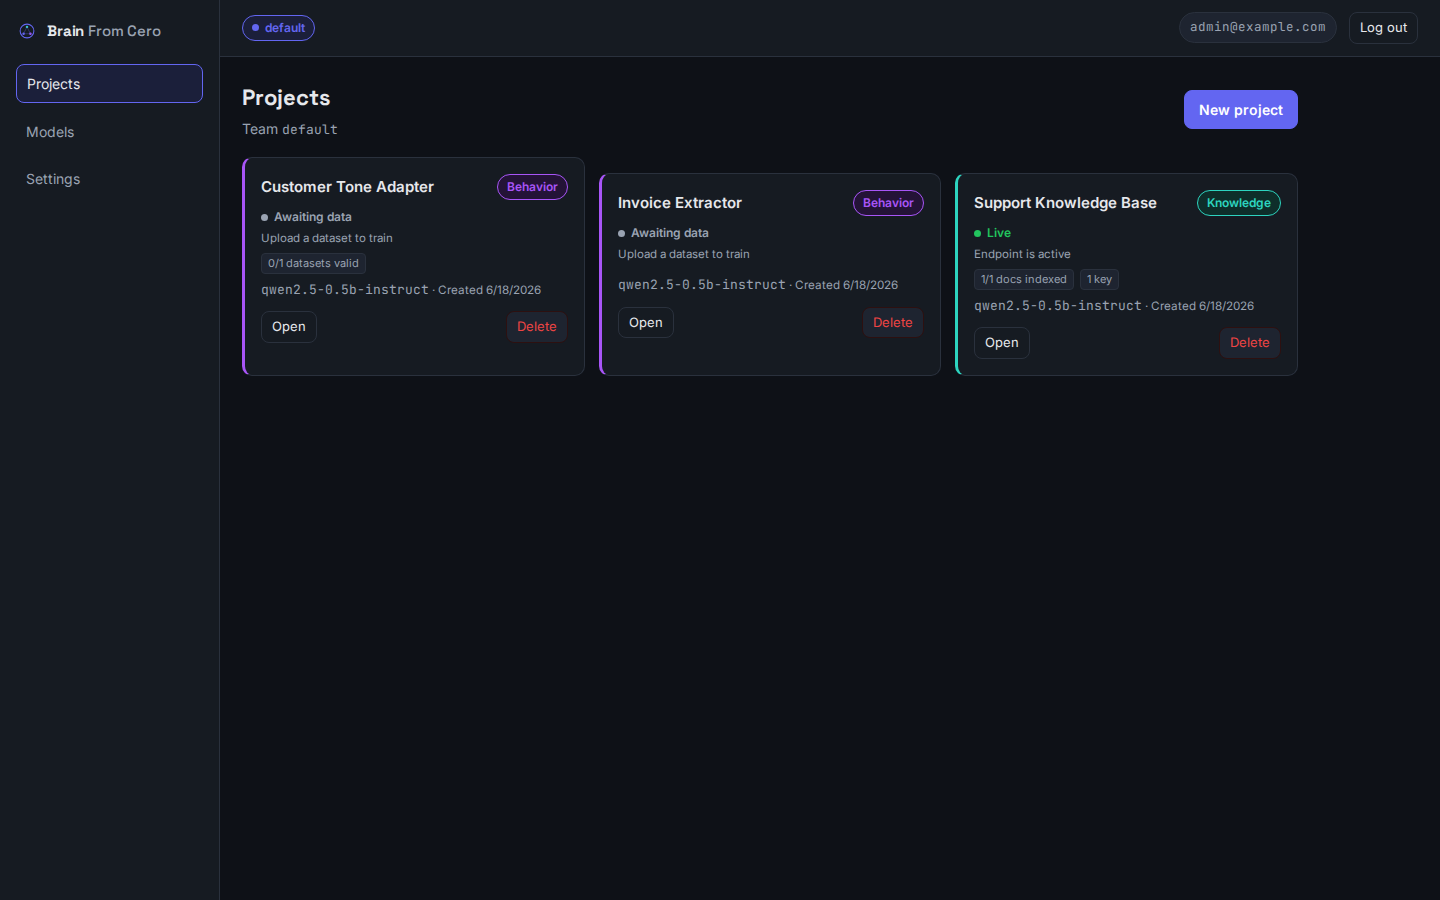
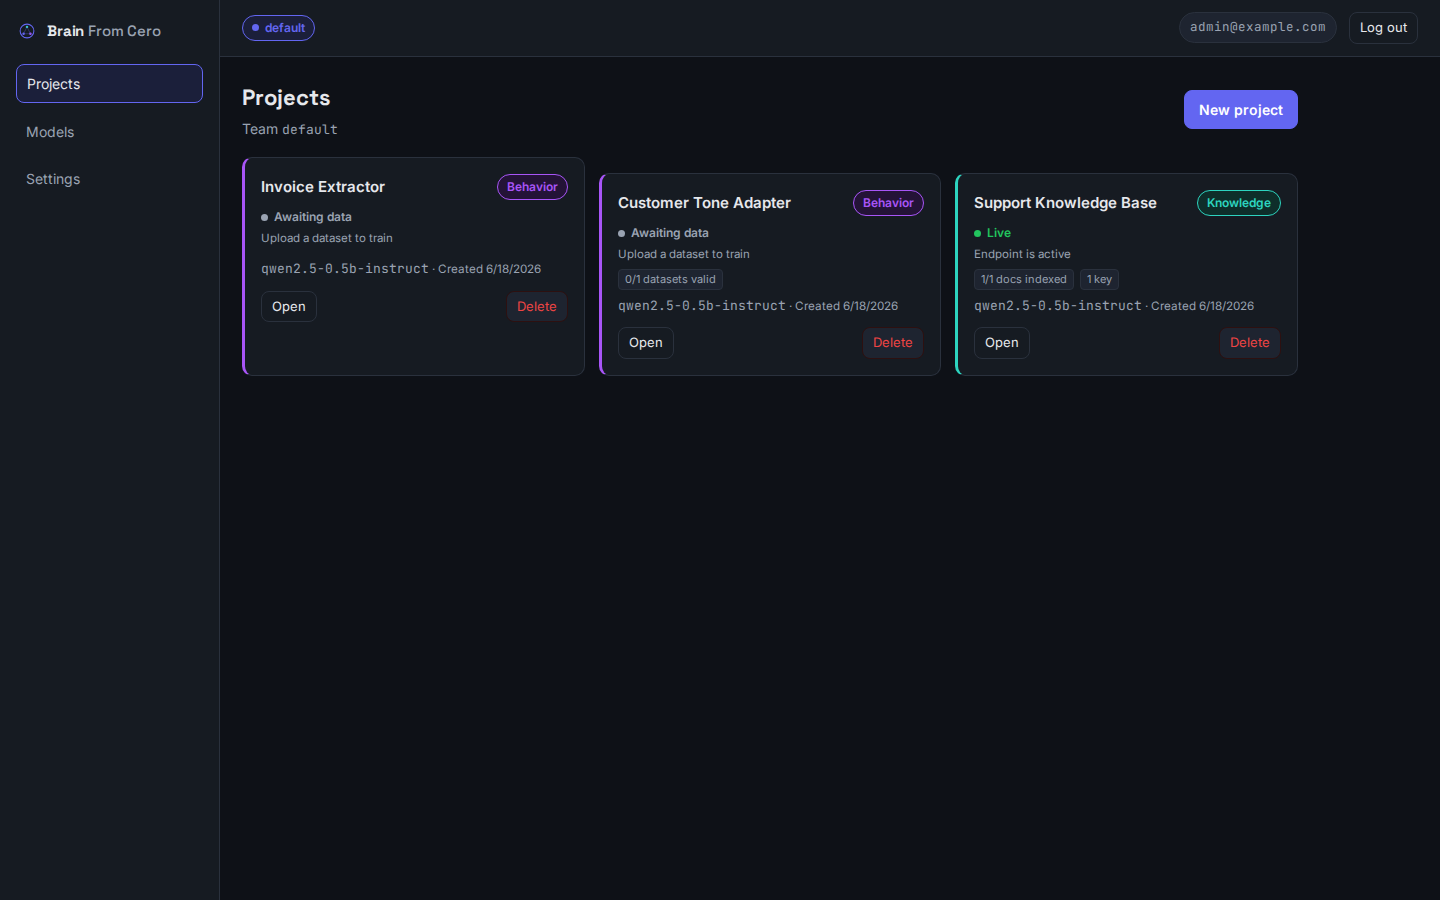
Docs: regenerate console screenshots + expand visual-docs tooling guide
- Re-ran make screenshots and make gif; 5 images updated (projects list,
  rag-endpoint, rag-playground, project-overview, hero.gif)
- README: replace one-liner setup note with a proper prerequisites + usage
  block; clarify that both targets wipe and re-seed demo data
- docs/developer-guide/workflow.md: add "Console visual documentation" section
  (prerequisites, make targets, when to re-run); fix stale adapta/ path
  references → brain/; fix stale CONTRIBUTING.md URL

diff --git a/docs/developer-guide/workflow.md b/docs/developer-guide/workflow.md
@@ -41,16 +41,16 @@ what the eval gate measures.
 ### Adding or changing an API endpoint
 
 1. Edit `specs/openapi.yaml` **first** (the SSOT).
-2. `make generate` — regenerate `adapta/models/generated/models.py`. **Never
+2. `make generate` — regenerate `brain/models/generated/models.py`. **Never
    hand-edit generated files.**
-3. Implement the handler in `adapta/api/v1/*` and the logic in
-   `adapta/services/*`.
+3. Implement the handler in `brain/api/v1/*` and the logic in
+   `brain/services/*`.
 4. `make check-models` (drift gate) and `make test-contracts` (schemathesis
    against a live server) must pass.
 
 ### Changing the database schema
 
-1. Change the ORM in `adapta/db/models.py`.
+1. Change the ORM in `brain/db/models.py`.
 2. Autogenerate a migration, then **review it** (autogenerated ≠ correct).
 3. `make migrate-test` — the up→down→up round-trip must pass on seeded data.
 
@@ -84,5 +84,29 @@ API/schema/model; (2) the relevant gate is **green in CI**, not just locally;
 artifacts were regenerated, not hand-edited; (5) docs were updated in the same
 change.
 
+## Console visual documentation
+
+`make screenshots` and `make gif` regenerate the screenshots and hero GIF committed to
+`docs/screenshots/`. Re-run them whenever you change the console UI — they are the
+visual changelog for reviewers and users.
+
+**Prerequisites (once, on the host):**
+
+```bash
+cd e2e && npm install && npx playwright install chromium
+# ffmpeg must be on PATH
+```
+
+**Usage (stack must be up):**
+
+```bash
+make screenshots   # 9 PNGs at 1440×900, dark theme → docs/screenshots/
+make gif           # guided walkthrough → docs/screenshots/hero.gif (~1–2 MB)
+```
+
+Both seed demo data fresh on each run (wipes existing projects → creates 3). Commit the
+updated `docs/screenshots/` files alongside the console change. These targets are
+**host-only and never run in CI**.
+
 For coding style, branch/commit conventions, and the contributor checklist, see
-[CONTRIBUTING.md](https://github.com/santiagoyie/adapta/blob/main/CONTRIBUTING.md).
+[CONTRIBUTING.md](https://github.com/santiagoyie/brainFromCero/blob/main/CONTRIBUTING.md).

diff --git a/README.md b/README.md
@@ -457,14 +457,26 @@ make migrate-test    # up → down → up round-trip (Pillar 2 gate)
 make test-contracts  # schemathesis vs a live server (set ADAPTA_BEARER_TOKEN first)
 ```
 
-Two additional targets run **on the host** (not in the container) and require the stack to be up:
+### Visual documentation (LOCAL ONLY — not part of CI)
+
+`make screenshots` and `make gif` run Playwright against the live stack to regenerate the console screenshots and hero GIF committed under `docs/screenshots/`. Re-run them whenever you change the console UI.
+
+**Prerequisites (one-time, on the host):**
 
 ```bash
-make screenshots     # capture console views as PNGs → docs/screenshots/  (needs Playwright + ffmpeg)
-make gif             # record hero walkthrough → docs/screenshots/hero.gif  (needs Playwright + ffmpeg)
+# Node.js 18+ required
+cd e2e && npm install && npx playwright install chromium
+# ffmpeg must be on PATH (brew install ffmpeg / apt install ffmpeg)
 ```
 
-These are local-only media targets — not part of CI. First-time setup: `cd e2e && npm install && npx playwright install chromium`.
+**Usage (stack must be up — `make up`):**
+
+```bash
+make screenshots   # seeds demo data, captures 9 PNGs at 1440×900 → docs/screenshots/
+make gif           # seeds demo data, records walkthrough, converts webm → GIF → docs/screenshots/hero.gif
+```
+
+Both targets wipe and re-seed demo projects on each run — the DB is left in a clean 3-project state. Commit the updated files in `docs/screenshots/` alongside any console change.
 
 Full doc: [docs/reference/SDD_WORKFLOW.md](docs/reference/SDD_WORKFLOW.md).
 
